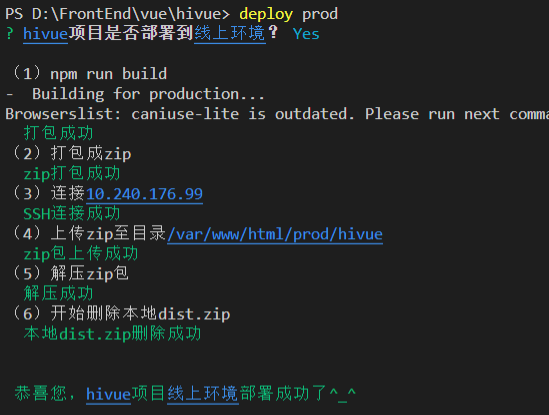
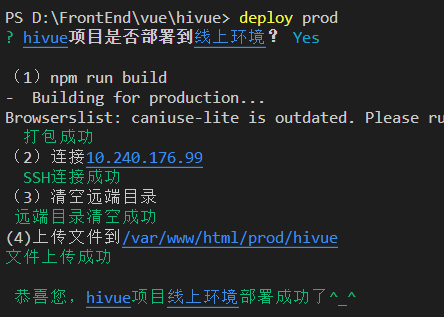
FEAT: 优化部署流程，去除archiver压缩zip过程

diff --git a/lib/deploy.js b/lib/deploy.js
@@ -1,54 +1,37 @@
 const path = require('path');
-const fs = require('fs');
 const childProcess = require('child_process');
 const node_ssh = require('node-ssh');
-const archiver = require('archiver');
 const { successLog, errorLog, underlineLog } = require('../utils/index');
 const projectDir = process.cwd();
 
 let ssh = new node_ssh(); // 生成ssh实例
 
 // 部署流程入口
-function deploy(config) {
-  const { script } = config;
+async function deploy(config) {
+  const { script, webDir, distPath, projectName, name } = config;
+  execBuild(script);
+  await connectSSH(config);
+  await clearOldFile(config.webDir);
+  await uploadDirectory(distPath, webDir);
+  successLog(`\n 恭喜您，${underlineLog(projectName)}项目${underlineLog(name)}部署成功了^_^\n`);
+  process.exit(0);
+}
+
+// 第一步，执行打包脚本
+function execBuild(script) {
   try {
     console.log(`\n（1）${script}`);
     childProcess.execSync(`${script}`);
     successLog('  打包成功');
-    startZip(config);
   } catch (err) {
     errorLog(err);
     process.exit(1);
   }
 }
 
-// 开始打包
-function startZip(config) {
-  let { distPath, host } = config;
-  distPath = path.resolve(projectDir, distPath);
-  console.log('（2）打包成zip');
-  const archive = archiver('zip', {
-    zlib: { level: 9 },
-  }).on('error', err => {
-    throw err;
-  });
-  const output = fs.createWriteStream(`${projectDir}/dist.zip`).on('close', err => {
-    if (err) {
-      console.log('  关闭archiver异常:', err);
-      return;
-    }
-    successLog('  zip打包成功');
-    console.log(`（3）连接${underlineLog(host)}`);
-    uploadFile(config);
-  });
-  archive.pipe(output);
-  archive.directory(distPath, '/');
-  archive.finalize();
-}
-
-// 上传文件
-function uploadFile(config) {
-  const { host, port, username, password, privateKey, passphrase, } = config;
+// 第二步，连接SSH
+async function connectSSH(config) {
+  const { host, port, username, password, privateKey, passphrase, distPath } = config;
   const sshConfig = {
     host,
     port,
@@ -57,78 +40,47 @@ function uploadFile(config) {
     privateKey,
     passphrase
   };
-  ssh.connect(sshConfig)
-    .then(() => {
-      successLog(`  SSH连接成功`);
-      console.log(`（4）上传zip至目录${underlineLog(config.webDir)}`);
-      ssh.putFile(`${projectDir}/dist.zip`, `${config.webDir}/dist.zip`)
-        .then(() => {
-          successLog(`  zip包上传成功`);
-          console.log('（5）解压zip包');
-          statrRemoteShell(config);
-        })
-        .catch(err => {
-          errorLog('  文件传输异常', err);
-          process.exit(0);
-        });
-    })
-    .catch(err => {
-      errorLog('  连接失败', err);
-      process.exit(0);
-    });
-}
-
-// 执行Linux命令
-function runCommand(command, webDir) {
-  return new Promise((resolve, reject) => {
-    ssh.execCommand(command, { cwd: webDir })
-      .then(result => {
-        resolve();
-        // if (result.stdout) {
-        //   successLog(result.stdout);
-        // }
-        if (result.stderr) {
-          errorLog(result.stderr);
-          process.exit(1);
-        }
-      })
-      .catch(err => {
-        reject(err);
-      });
-  });
-}
-
-// 开始执行远程命令
-function statrRemoteShell(config) {
-  const { webDir } = config;
-  const commands = [`cd ${webDir}`, 'pwd', 'unzip -o dist.zip && rm -f dist.zip'];
-  const promises = [];
-  for (let i = 0; i < commands.length; i += 1) {
-    promises.push(runCommand(commands[i], webDir));
+  try {
+    console.log(`（2）连接${underlineLog(host)}`);
+    await ssh.connect(sshConfig);
+    successLog(`  SSH连接成功`);
+  } catch (err) {
+    errorLog('  连接失败', err);
+    process.exit(1);
   }
-  Promise.all(promises)
-    .then(() => {
-      successLog('  解压成功');
-      console.log('（6）开始删除本地dist.zip');
-      deleteLocalZip(config);
-    })
-    .catch(err => {
-      errorLog('  文件解压失败', err);
-      process.exit(0);
-    });
 }
 
-// 删除本地dist.zip包
-function deleteLocalZip(config) {
-  const { projectName, name } = config;
-  fs.unlink(`${projectDir}/dist.zip`, err => {
-    if (err) {
-      errorLog('  本地dist.zip删除失败', err);
-    }
-    successLog('  本地dist.zip删除成功\n');
-    successLog(`\n 恭喜您，${underlineLog(projectName)}项目${underlineLog(name)}部署成功了^_^\n`);
-    process.exit(0);
-  });
+// 运行命令
+async function runCommand(command, webDir) {
+  await ssh.execCommand(command, { cwd: webDir });
+}
+
+// 第三步，清空远端目录
+async function clearOldFile(webDir) {
+  try {
+    console.log('（3）清空远端目录');
+    await runCommand(`cd ${webDir}`, webDir);
+    await runCommand(`rm -rf *`, webDir);
+    successLog(` 远端目录清空成功 `);
+  } catch (err) {
+    errorLog('  远端目录清空失败', err);
+    process.exit(1);
+  }
+}
+
+// 第四步，上传文件夹
+async function uploadDirectory(distPath, webDir) {
+  try {
+    console.log(`(4)上传文件到${underlineLog(webDir)}`);
+    await ssh.putDirectory(path.resolve(projectDir, distPath), webDir, {
+      recursive: true,
+      concurrency: 10,
+    });
+    successLog('文件上传成功');
+  } catch (err) {
+    errorLog('  文件传输异常', err);
+    process.exit(1);
+  }
 }
 
 module.exports = deploy;

diff --git a/README.md b/README.md
@@ -17,7 +17,7 @@ https://github.com/dadaiwei/fe-deploy-cli/blob/master/README.md
 ```
 npm i fe-deploy-cli -g
 ```
-安装成功后查看版本
+安装成功后查看版本（最新版本v0.0.7）
 
 ![安装fe-deploy-cli](./imgs/安装deploy.png)
 
@@ -77,7 +77,7 @@ deploy --help
 ```
 deploy dev
 ```
-先有一个确认，确认后进入部署流程，完成6步操作后，部署成功！！！
+先有一个确认，确认后进入部署流程，完成4步操作后，部署成功！！！
 
 ![测试环境部署](./imgs/测试环境部署.png)
 
